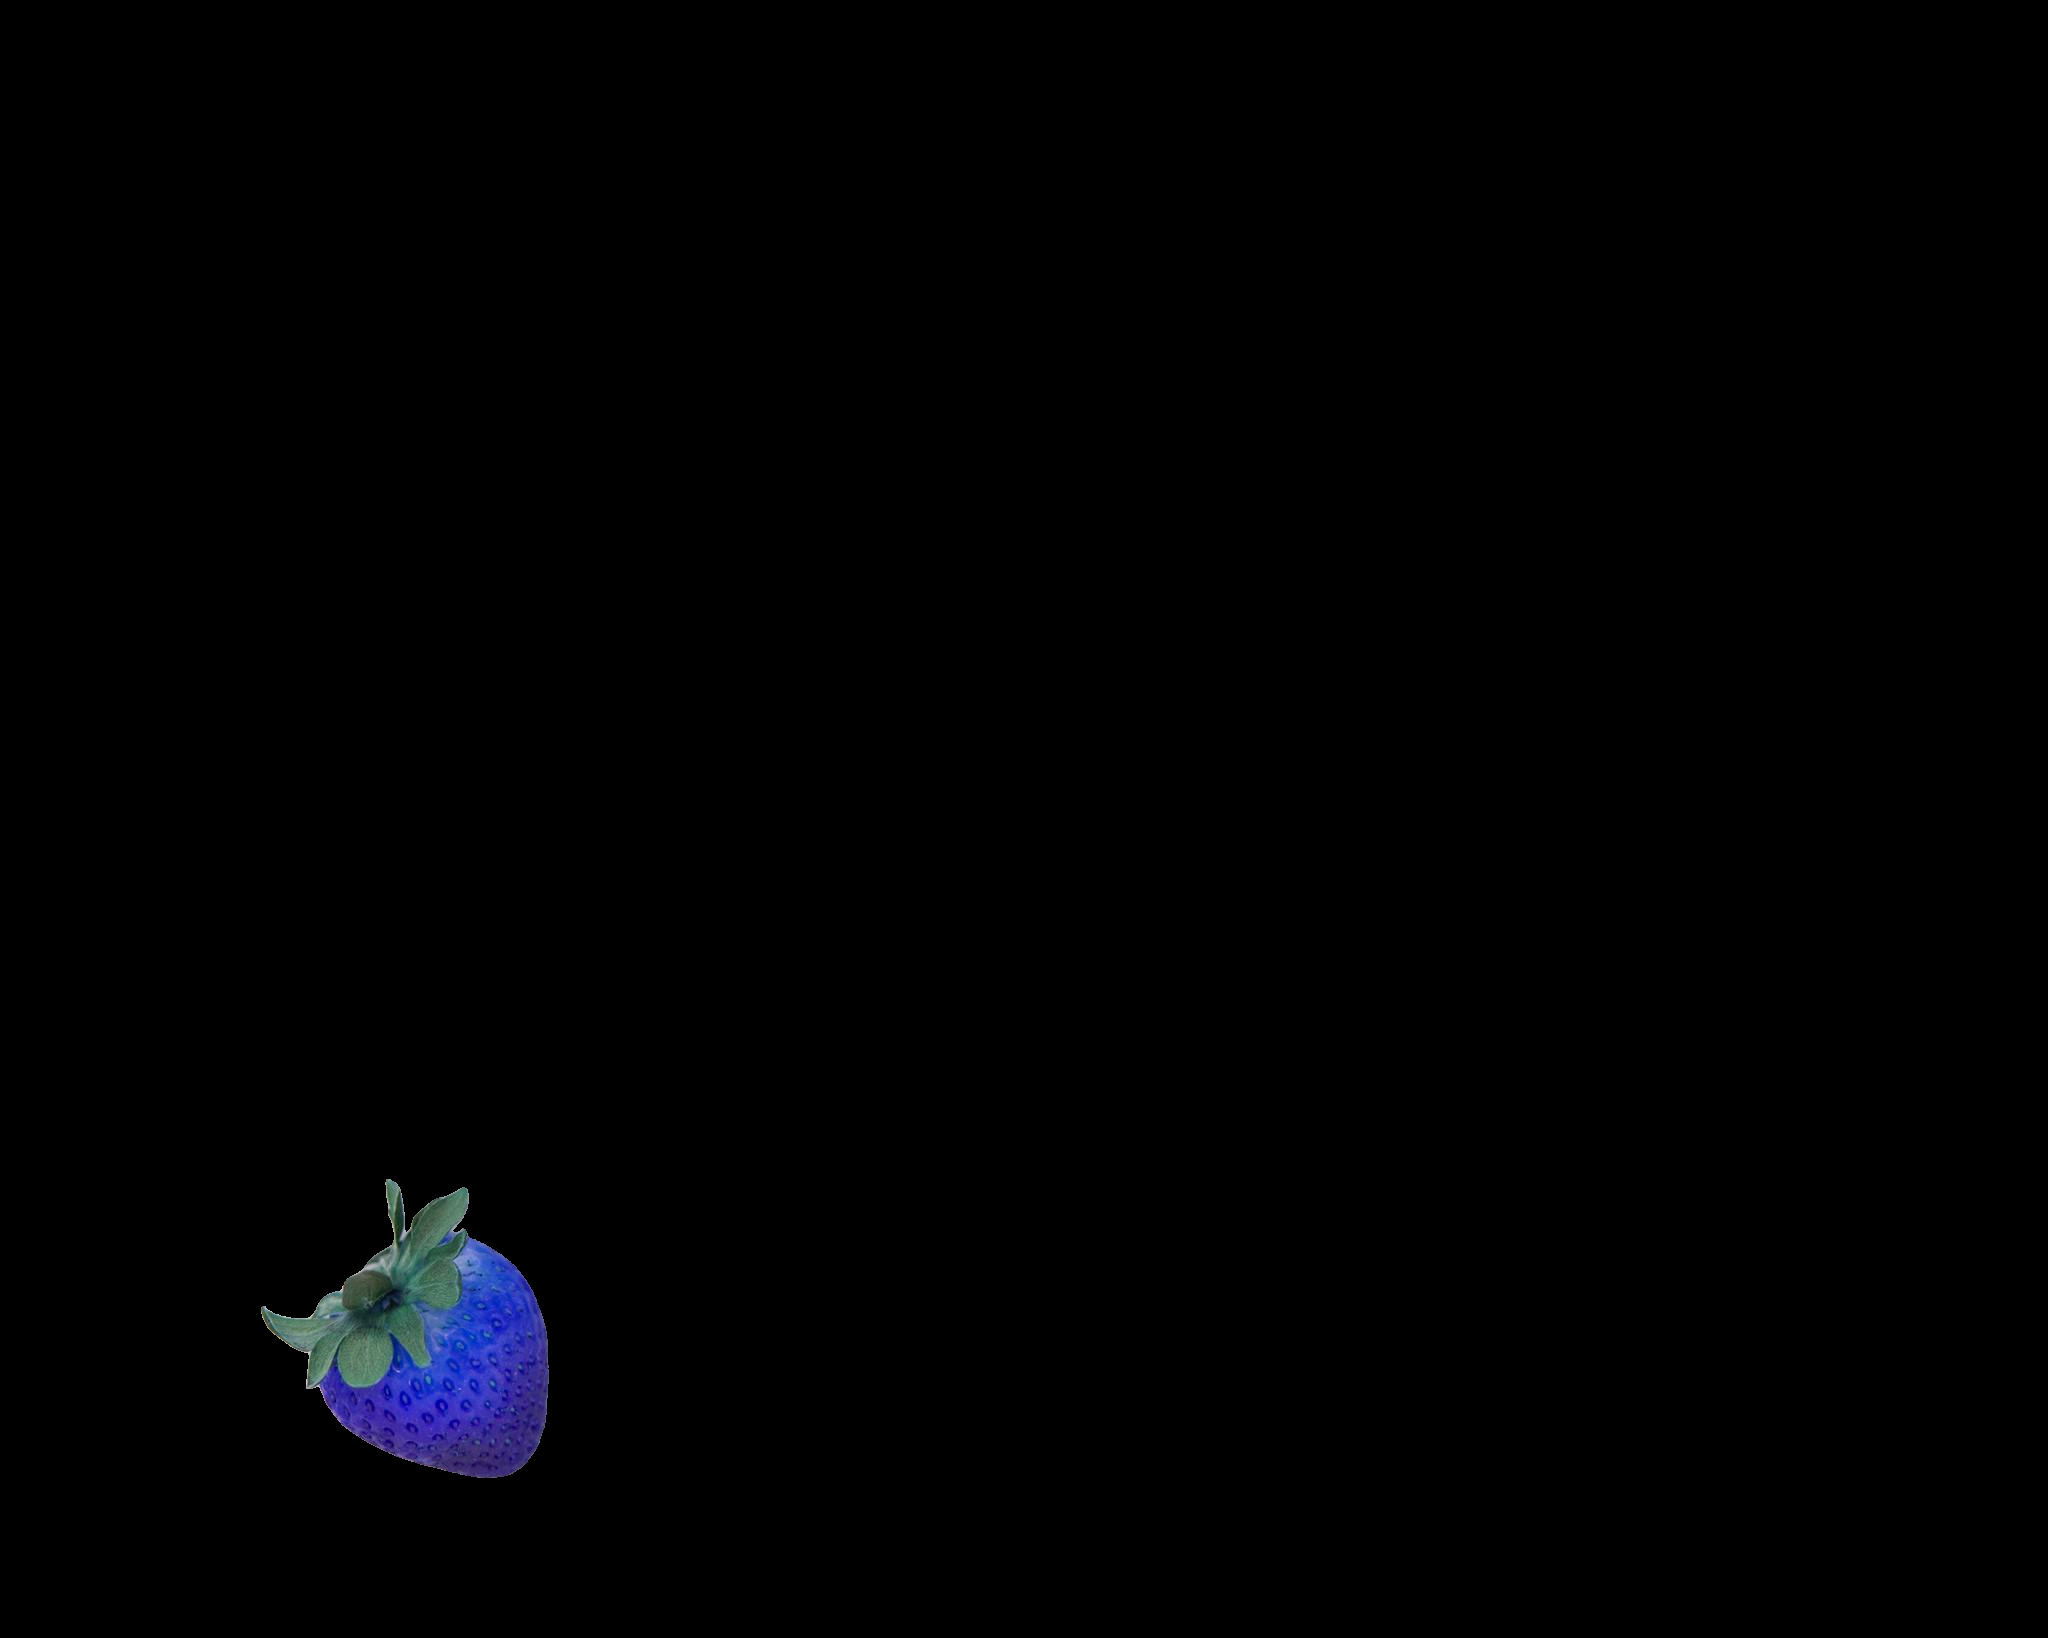
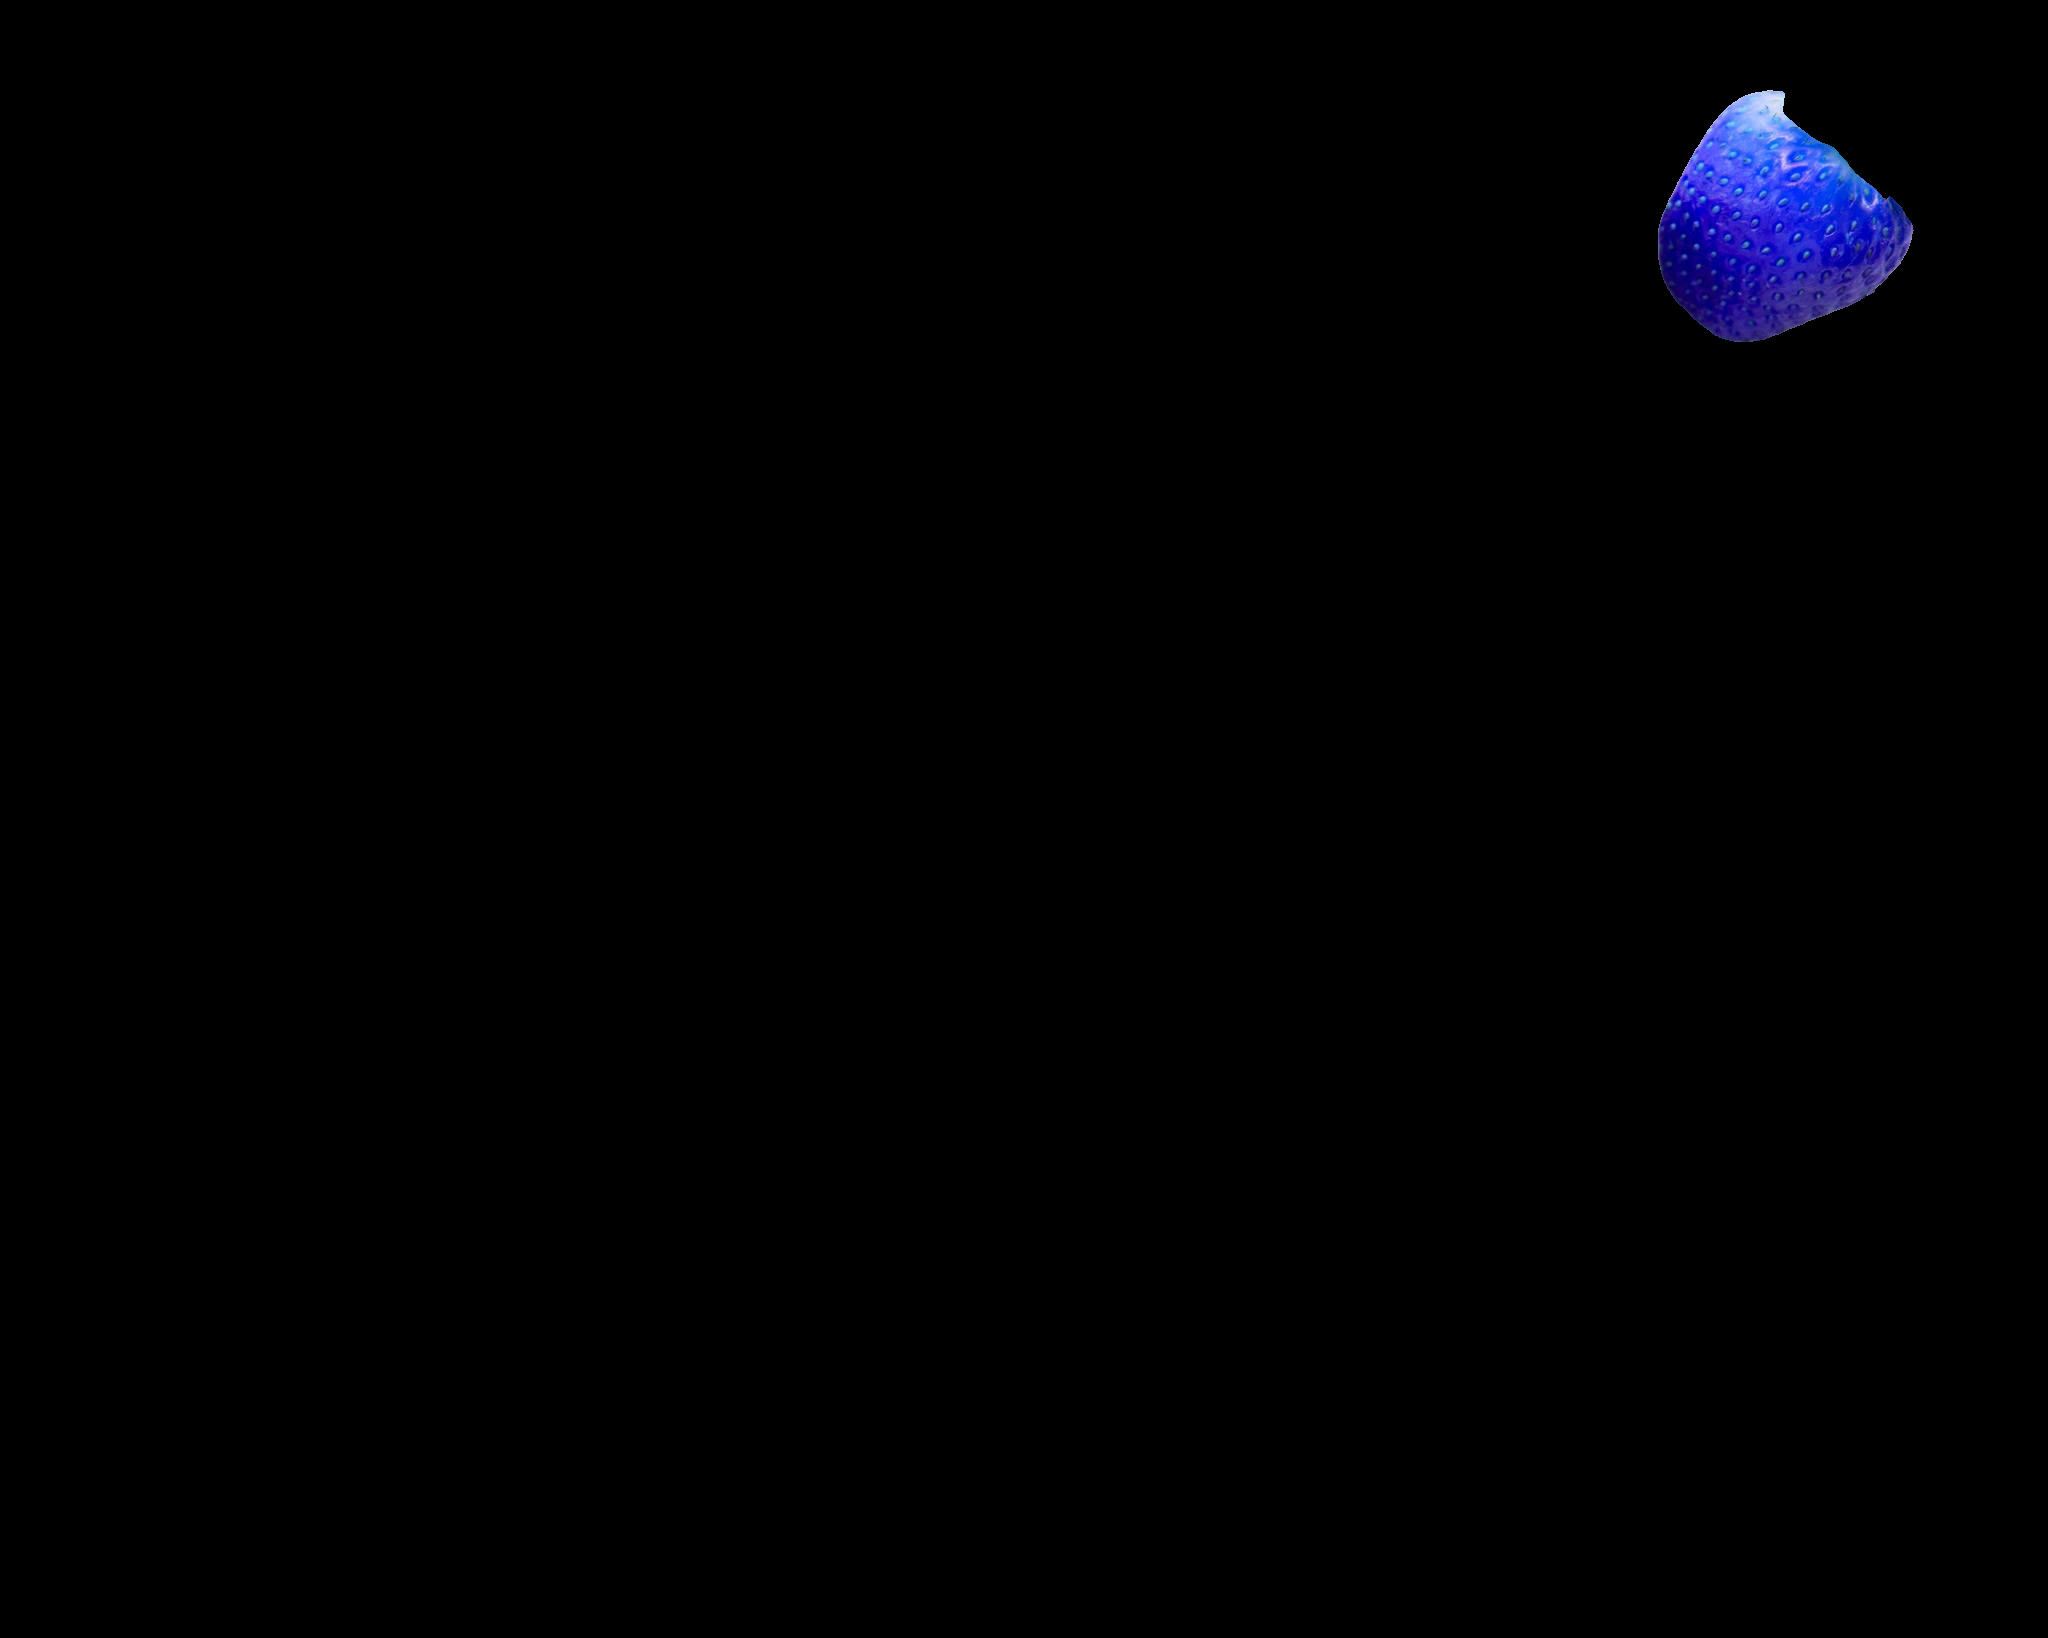
more

Changed region(s): [[0.125, 0.7161, 0.2812, 0.9029], [0.8125, 0.0311, 0.9375, 0.2179]]

diff --git a/tutorials/04-mask-stickers/main.py b/tutorials/04-mask-stickers/main.py
@@ -22,13 +22,13 @@ def main():
     # Create the mask generator
     mask_generator = SAM2AutomaticMaskGenerator(
         sam2_model,
-        points_per_side=18,  # Increased to capture more details
+        points_per_side=20,  # Increased to capture more details
         pred_iou_thresh=0.94,  # Slightly reduced to include more masks
         stability_score_thresh=0.95,  # Slightly reduced to include more stable masks
         crop_n_layers=2,  # No cropping to prevent additional masks
-        min_mask_region_area=500,  # Reduced to capture smaller elements
-        box_nms_thresh=0.97,  # Keeping it strict to reduce overlap
-        crop_overlap_ratio=0.4,  # Keeping the same
+        min_mask_region_area=100,  # Reduced to capture smaller elements
+        box_nms_thresh=0.95,  # Keeping it strict to reduce overlap
+        crop_overlap_ratio=0.3,  # Keeping the same
     )
 
     # Generate masks
